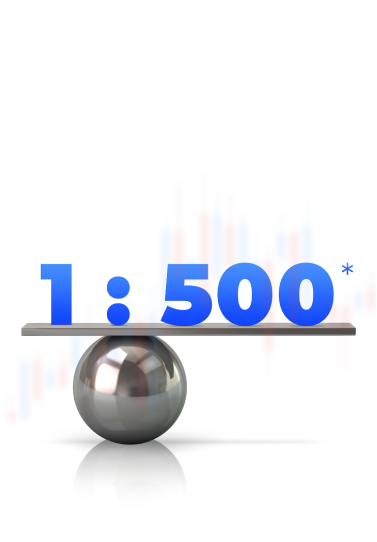
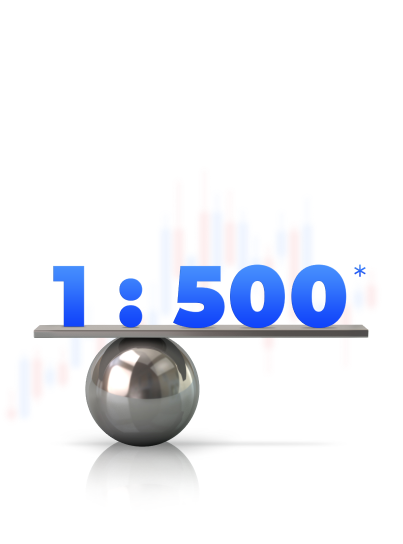
[pages] leverage mobile img fix & minor style fix

diff --git a/src/components/pages/main/leverage/_uinvex/components/leverageTopSection/LeverageTopSection.scss b/src/components/pages/main/leverage/_uinvex/components/leverageTopSection/LeverageTopSection.scss
@@ -4,7 +4,7 @@
 .leverage-wrapper {
   &__page-top {
     @include d-flex(center, start, row);
-    @include mt((xs: 16));
+    @include mt((xs: 14));
     height: 608px;
     color: $dark-text;
 
